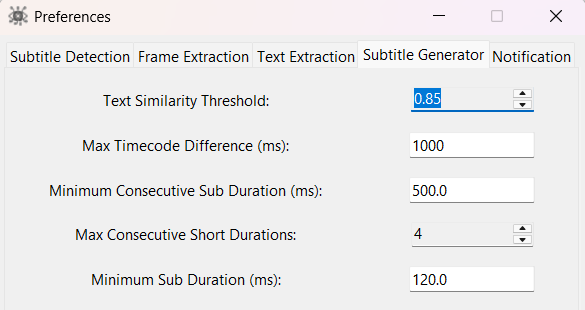
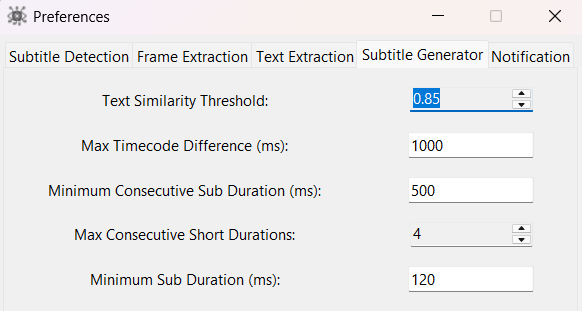
int used for ms values

diff --git a/gui.py b/gui.py
@@ -1401,6 +1401,7 @@ class PreferencesUI(tk.Toplevel):
         subtitle_generator_frame.grid_columnconfigure(0, weight=1)
         subtitle_generator_frame.grid_columnconfigure(1, weight=1)
         self.notebook_tab.add(subtitle_generator_frame, text="Subtitle Generator")
+        check_int, check_float = (self.register(self._check_integer), '%P'), (self.register(self._check_float), '%P')
 
         ttk.Label(subtitle_generator_frame, text="Text Similarity Threshold:").grid(
             column=0, row=0, pady=self.wgt_y_padding
@@ -1417,7 +1418,6 @@ class PreferencesUI(tk.Toplevel):
 
         ttk.Label(subtitle_generator_frame, text="Max Timecode Difference (ms):").grid(column=0, row=1)
         self.max_timecode_diff_ms = self.make_pref_var(CONFIG.max_timecode_diff_ms)
-        check_int = (self.register(self._check_integer), '%P')
         ttk.Entry(
             subtitle_generator_frame,
             textvariable=self.max_timecode_diff_ms,
@@ -1429,12 +1429,11 @@ class PreferencesUI(tk.Toplevel):
         ttk.Label(subtitle_generator_frame, text="Minimum Consecutive Sub Duration (ms):").grid(
             column=0, row=2, pady=self.wgt_y_padding)
         self.min_consecutive_sub_dur_ms = self.make_pref_var(CONFIG.min_consecutive_sub_dur_ms)
-        check_float = (self.register(self._check_float), '%P')
         ttk.Entry(
             subtitle_generator_frame,
             textvariable=self.min_consecutive_sub_dur_ms,
             validate='key',
-            validatecommand=check_float,
+            validatecommand=check_int,
             width=self.entry_size
         ).grid(column=1, row=2)
 
@@ -1453,12 +1452,11 @@ class PreferencesUI(tk.Toplevel):
             column=0, row=4, pady=self.wgt_y_padding
         )
         self.min_sub_duration_ms = self.make_pref_var(CONFIG.min_sub_duration_ms)
-        check_float = (self.register(self._check_float), '%P')
         ttk.Entry(
             subtitle_generator_frame,
             textvariable=self.min_sub_duration_ms,
             validate='key',
-            validatecommand=check_float,
+            validatecommand=check_int,
             width=self.entry_size
         ).grid(column=1, row=4)
 

diff --git a/shared/config.py b/shared/config.py
@@ -29,9 +29,9 @@ class Config:
         "Subtitle Generator": {
             "text_similarity_threshold": (float, 0.85),
             "max_timecode_diff_ms": (int, 1000),
-            "min_consecutive_sub_dur_ms": (float, 500.0),
+            "min_consecutive_sub_dur_ms": (int, 500),
             "max_consecutive_short_durs": (int, 4),
-            "min_sub_duration_ms": (float, 120.0),
+            "min_sub_duration_ms": (int, 120),
         },
         "Subtitle Detection": {
             "split_start": (float, 0.25),
